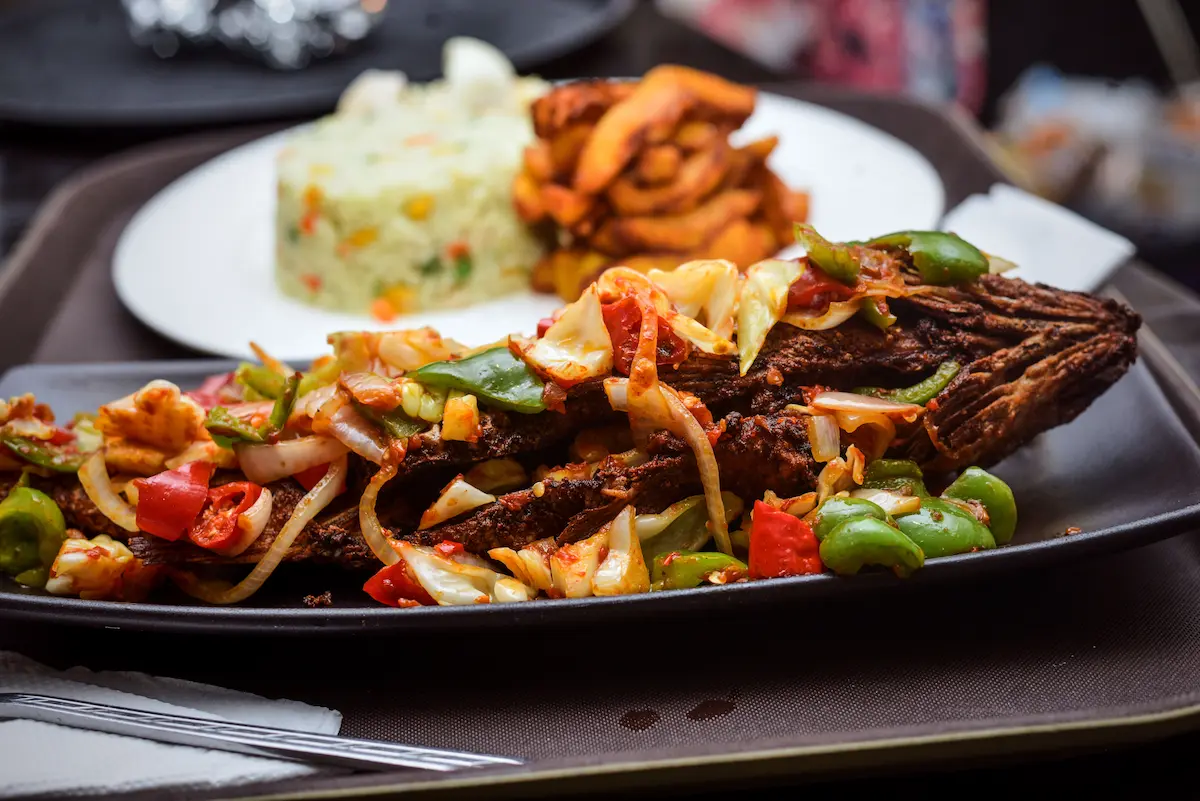
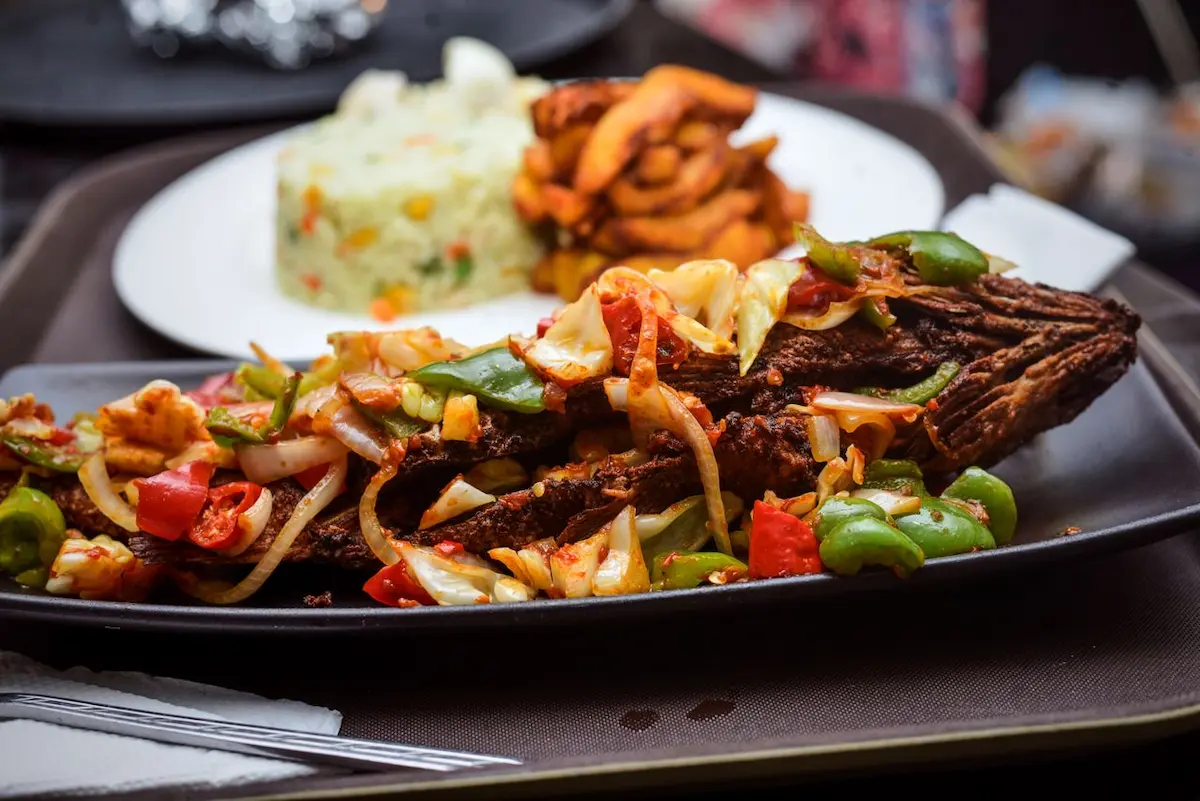
image fix

diff --git a/final/index.html b/final/index.html
@@ -11,7 +11,7 @@
 
   <meta property="og:title" content="ChopLagos | Lagos Street Food Guide">
   <meta property="og:description" content="Discover popular Lagos street food and local dishes, filterable by spice level and region.">
-  <meta property="og:image" content="https://gpboss247.github.io/wdd231/final/images/og-image.png">
+  <meta property="og:image" content="https://gpboss247.github.io/wdd231/final/images/og-image.webp">
   <meta property="og:url" content="https://gpboss247.github.io/wdd231/final/index.html">
   <meta property="og:type" content="website">
   <meta property="og:locale" content="en_US">
